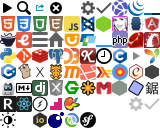
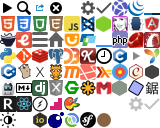
Add mocha documentation

Changed region(s): [[0.5938, 0.875, 0.7188, 1.0]]

diff --git a/assets/stylesheets/global/_icons.scss b/assets/stylesheets/global/_icons.scss
@@ -97,3 +97,4 @@
 ._icon-lua:before           { background-position: -3rem -7rem; @extend %darkIconFix !optional; }
 ._icon-clojure:before       { background-position: -4rem -7rem; }
 ._icon-symfony:before       { background-position: -5rem -7rem; }
+._icon-mocha:before         { background-position: -6rem -7rem; }

diff --git a/assets/stylesheets/pages/_base.scss b/assets/stylesheets/pages/_base.scss
@@ -19,6 +19,7 @@
 }
 
 ._lodash,
-._sinon {
+._sinon,
+._mocha {
   @extend %simple;
 }

diff --git a/lib/docs/filters/mocha/entries.rb b/lib/docs/filters/mocha/entries.rb
@@ -1,0 +1,34 @@
+module Docs
+  class Mocha
+    class EntriesFilter < Docs::EntriesFilter
+      ENTRIES = {
+        'asynchronous-code' => ['done()'],
+        'hooks' => ['before()', 'after()', 'beforeEach()', 'afterEach()', 'suiteSetup()', 'suiteTeardown()', 'setup()', 'teardown()'],
+        'exclusive-tests' => ['only()'],
+        'inclusive-tests' => ['skip()'],
+        'usage' => ['mocha'],
+        'bdd-interface' => ['describe()', 'context()', 'it()'],
+        'tdd-interface' => ['suite()', 'test()'],
+        'exports-interface' => ['exports'],
+        'qunit-interface' => ['QUnit'],
+        'require-interface' => ['require'],
+        'browser-setup' => ['setup()'],
+        'mocha.opts' => ['mocha.opts'],
+        'suite-specific-timeouts' => ['timeout()']
+      }
+
+      def additional_entries
+        ENTRIES.each_with_object [] do |(id, names), entries|
+          type = case id
+            when 'hooks' then 'Hooks'
+            when /interface/ then 'Interfaces'
+            else 'Miscellaneous' end
+
+          names.each do |name|
+            entries << [name, id, type]
+          end
+        end
+      end
+    end
+  end
+end

diff --git a/lib/docs/scrapers/mocha.rb b/lib/docs/scrapers/mocha.rb
@@ -1,0 +1,23 @@
+module Docs
+  class Mocha < UrlScraper
+    self.name = 'mocha'
+    self.type = 'mocha'
+    self.version = '2.2.1'
+    self.base_url = 'http://mochajs.org/'
+    self.links = {
+      home: 'http://mochajs.org/',
+      code: 'https://github.com/mochajs/mocha'
+    }
+
+    html_filters.push 'mocha/entries', 'mocha/clean_html', 'title'
+
+    options[:container] = '#content'
+    options[:title] = 'mocha'
+    options[:skip_links] = true
+
+    options[:attribution] = <<-HTML
+      &copy; 2011&ndash;2015 TJ Holowaychuk<br>
+      Licensed under the MIT License.
+    HTML
+  end
+end

diff --git a/lib/docs/filters/mocha/clean_html.rb b/lib/docs/filters/mocha/clean_html.rb
@@ -1,0 +1,15 @@
+module Docs
+  class Mocha
+    class CleanHtmlFilter < Filter
+      def call
+        doc.child.remove until doc.child['id'] == 'installation'
+
+        css('pre').each do |node|
+          node.content = node.content
+        end
+
+        doc
+      end
+    end
+  end
+end
